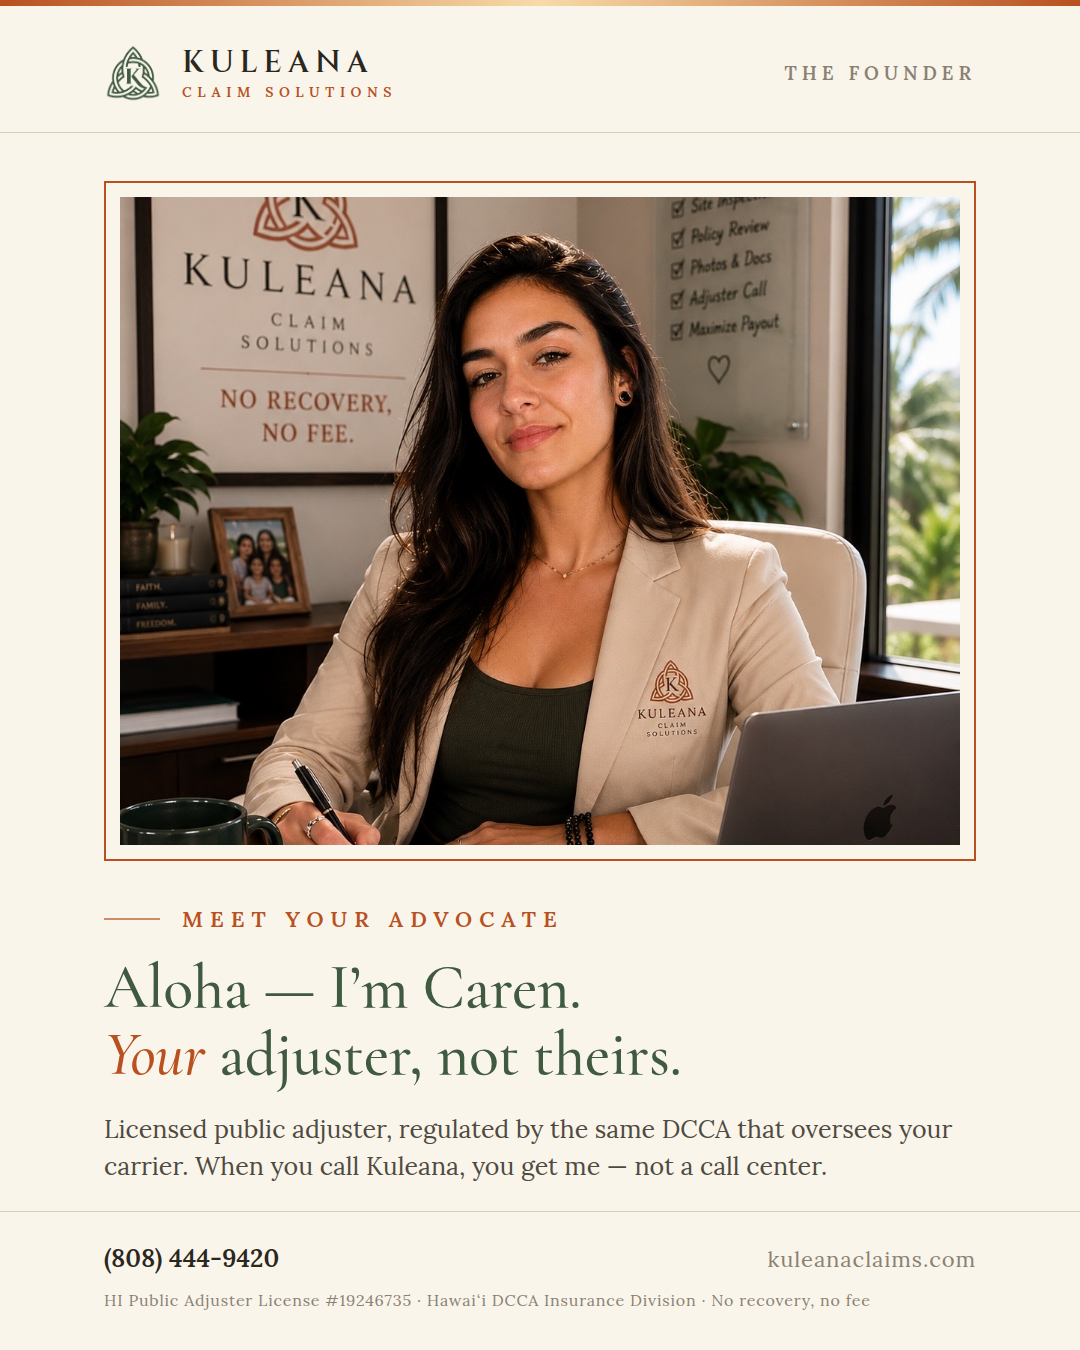
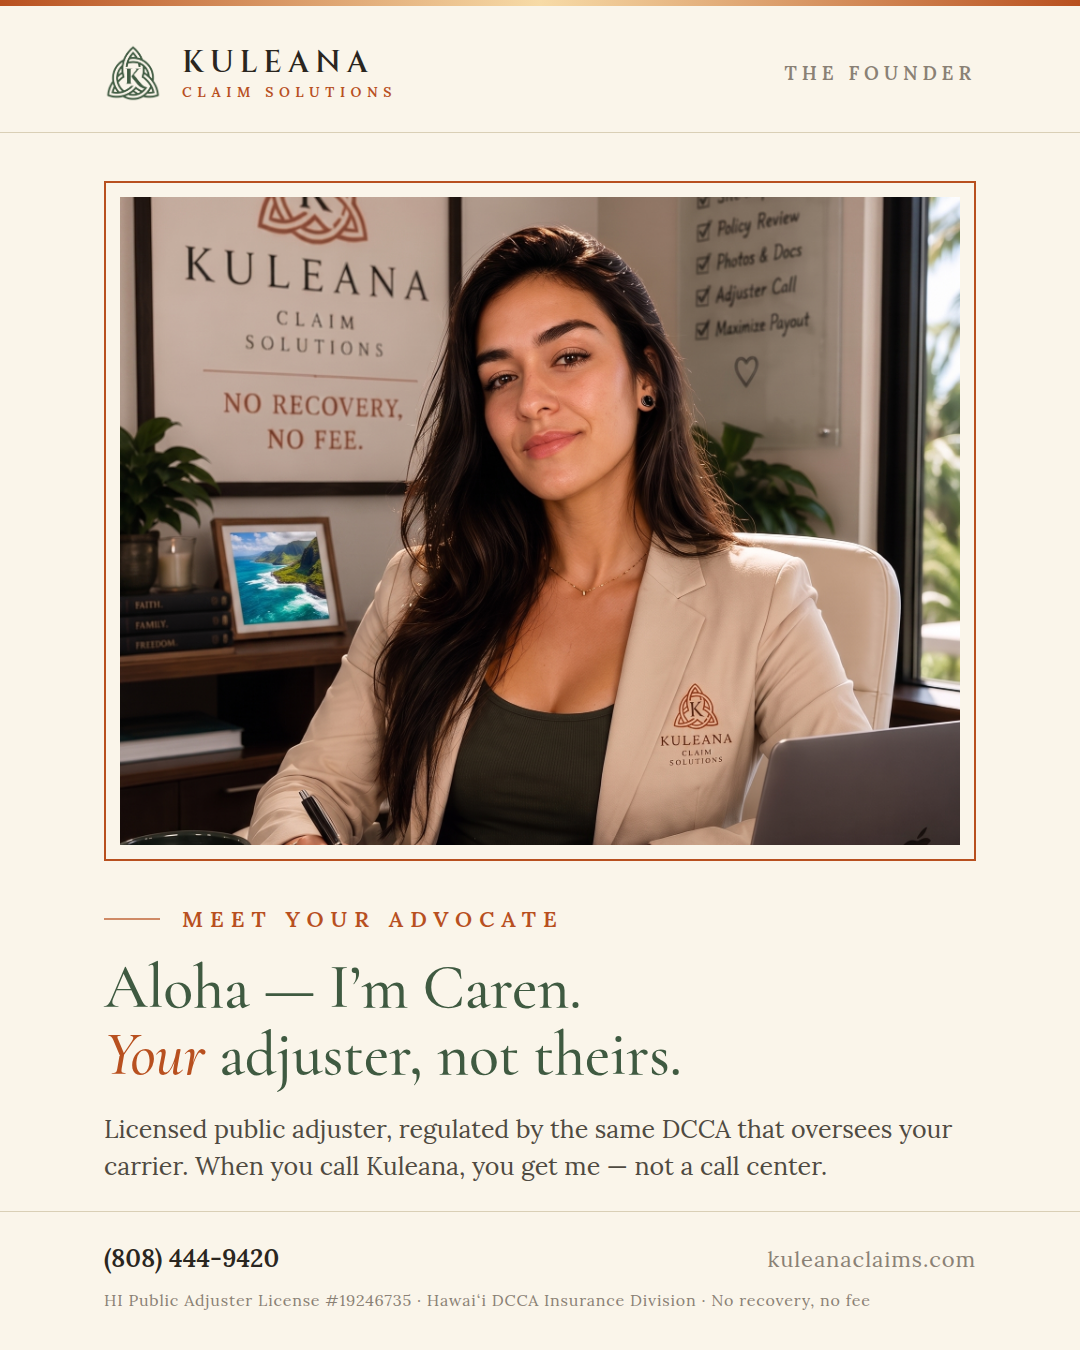
High-res founder portrait with coastline art replacing background photo
Native 2K re-edit (1792x2400) keeps all lettering intact; the 4K
upscale garbled small text and is removed. Post 23 re-rendered from
the new master.

Claude-Session: https://claude.ai/code/session_012ermQFeXKetnBLvQfiukPr

Changed region(s): [[0.0917, 0.1244, 0.8861, 0.6533], [0.7944, 0.5911, 0.825, 0.6222]]

diff --git a/instagram/kuleana-instagram-posts.html b/instagram/kuleana-instagram-posts.html
@@ -933,7 +933,7 @@ POST 23 · Photo post — meet your advocate (brand portrait)
     <div class="head-right">The Founder</div>
   </header>
   <div class="photo-frame" style="height: 680px;">
-    <img src="img/library-founder-desk.jpg" alt="Caren Almuina at the Kuleana Claim Solutions office" width="948" height="648" style="object-position: 50% 22%;" />
+    <img src="img/library-founder-desk-2k.png" alt="Caren Almuina at the Kuleana Claim Solutions office" width="948" height="648" style="object-position: 50% 22%;" />
   </div>
   <div class="photo-body">
     <div class="eyebrow">Meet Your Advocate</div>
